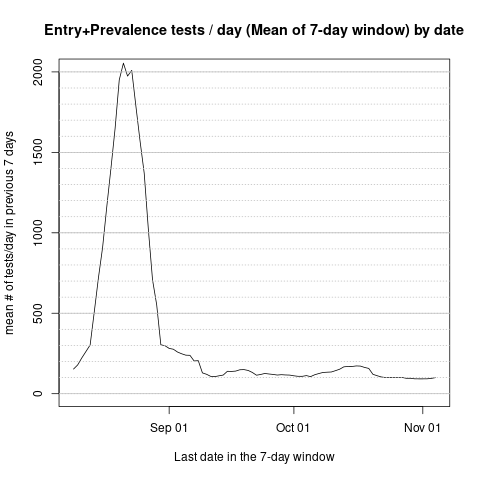
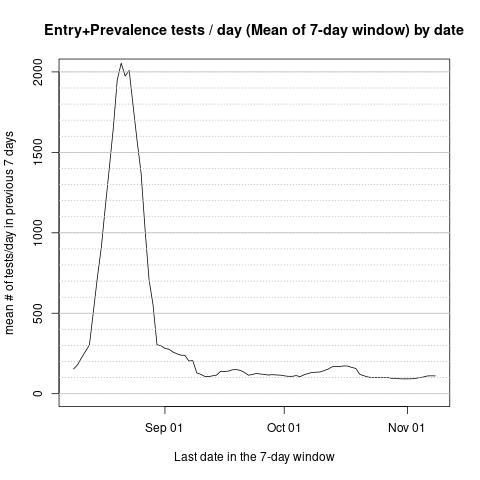
up to Nov 8

diff --git a/README.md b/README.md
@@ -41,7 +41,8 @@ Currently the reports are for the periods:
    * [Oct 19 to Oct 29](https://protect.ku.edu/sites/protect/files/documents/Dashboard/COVID-19_Dashboard_Oct19toOct25.pdf)
    * [Oct 22 to Oct 28](https://protect.ku.edu/sites/protect/files/documents/Dashboard/COVID-19_Dashboard_Oct22toOct28.pdf) 
    * [Oct 26 to Nov 01](https://protect.ku.edu/sites/protect/files/documents/Dashboard/COVID-19_Dashboard_Oct26toNov1.pdf) 
-   * [Oct 29 to Nov 04](https://protect.ku.edu/sites/protect/files/documents/Dashboard/COVID-19_Dashboard_Oct29toNov4.pdf) 
+   * [Oct 29 to Nov 04](https://protect.ku.edu/sites/protect/files/documents/Dashboard/COVID-19_Dashboard_Oct29toNov4.pdf)
+   * [Nov 02 to Nov 08](https://protect.ku.edu/sites/protect/files/documents/Dashboard/COVID-19_Dashboard_Nov2toNov8.pdf) 
 None of the reports trace the test-positivity percentage over time, which I was interested in.
 For a time-series of test-positivity rates to be easily interpreted as a proxy of the campus-wide prevalence of SARS-CoV-2 infections, it is important to either have detailed knowledge of the biases associated with targeted testing, or to focus on the entry tests and "randomized prevalence testing."
 Thus, this repository contains only data from the "Entry & Prevalence Testing" page of the Dashboard reports (that is page 2 in each of the reports).
